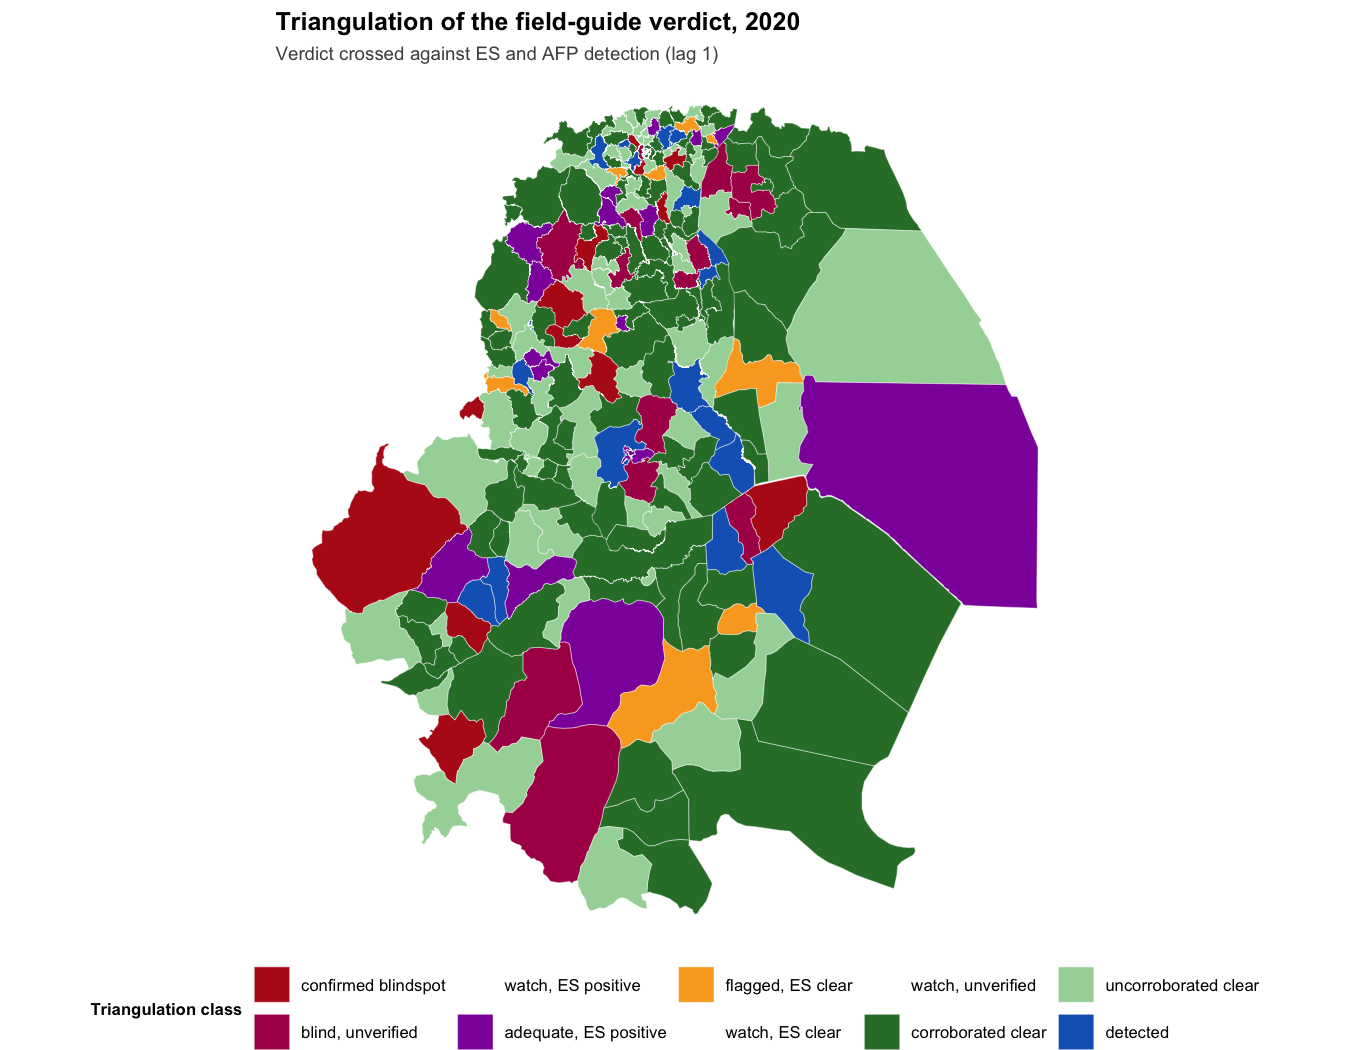
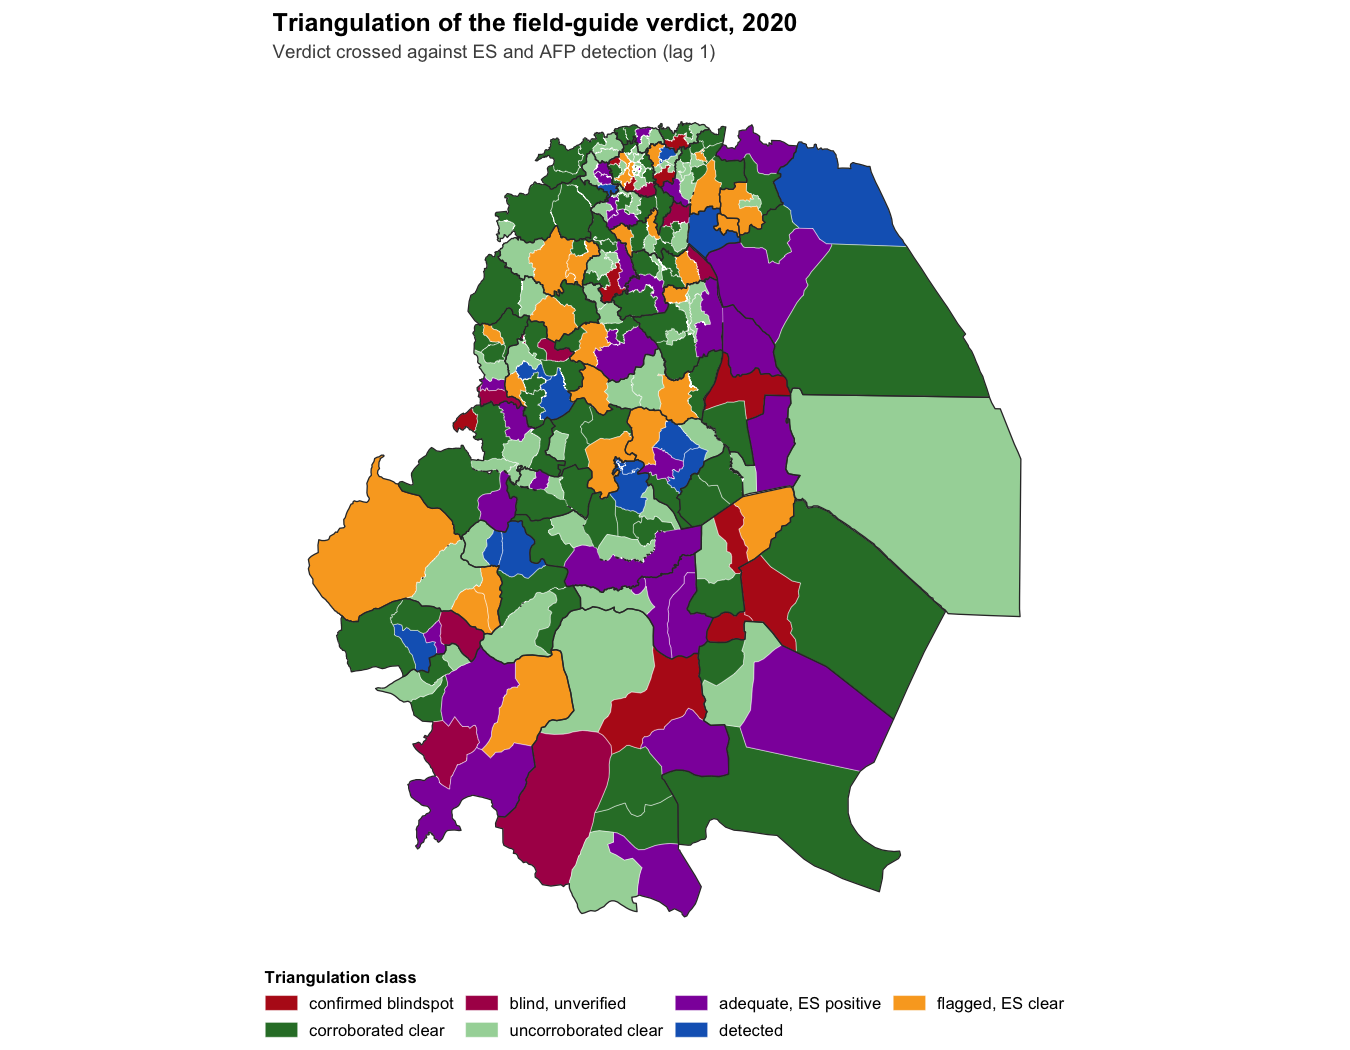
Polish concordance and triangulation maps; restructure README
- Overlay dissolved adm1 (province) outlines on the three-panel
  concordance map and the triangulation map (sntutils facetted-map
  convention), so provincial structure reads through the district
  choropleth.
- Add title/subtitle spacing and right-edge breathing space so the
  panel legends -- concordance panel C especially -- are no longer
  cramped.
- Triangulation map: lay the legend out in four columns and drop
  classes absent from the mapped year.
- README: fold the method-notes prose into a collapsible callout near
  the top, swap the flat triangulation count for a verdict x ES-status
  grid table, and note that polio NPAFP is the canonical example the
  method is built around.

Changed region(s): [[0.2178, 0.0914, 0.7778, 0.8838], [0.0622, 0.9143, 0.9333, 1.0], [0.1867, 0.0, 0.5911, 0.061]]

diff --git a/README.md b/README.md
@@ -35,6 +35,79 @@ does not forecast where poliovirus is circulating.
 **Designed for polio AFP surveillance. Applicable to any case-based VPD
 surveillance system.**
 
+<details>
+
+<summary>
+
+<b>Method notes — why a Bayesian spatial model, why INLA, and what the
+SPI is for</b> (click to expand)
+</summary>
+
+<br>
+
+**Why a Bayesian spatial model.** AFP counts at the district-month level
+are small and noisy. Many districts report zero cases in a given month
+even when surveillance is working, so a raw rate is unstable at that
+grain and a single bad month can look like a collapse. A BYM2 model (the
+Besag-York-Mollie reparameterisation of Riebler et al. 2016) handles
+this by borrowing strength across space: each district's estimate is
+pulled toward its neighbours in proportion to how little its own data
+can say on its own, and the model separates smooth spatial structure
+from unstructured local noise. A quiet district ringed by active ones is
+therefore read differently from a quiet district in a genuinely quiet
+region. Because the fit is Bayesian, every district-month comes with a
+full posterior, so the SPI carries a credible interval rather than a
+bare point estimate, and the uncertainty is itself part of the verdict.
+
+**Why INLA.** Fitting this by MCMC over tens of thousands of
+district-months, once per country and per year, would be slow. INLA
+(integrated nested Laplace approximation) gives fast, accurate
+approximate-Bayesian inference for exactly this class of latent Gaussian
+spatial models, so the whole chain runs in seconds to minutes instead of
+hours while still returning the joint posterior the SPI needs.
+
+**Expected rate model.** A Bayesian count regression with BYM2 spatial
+random effects, fit by INLA over a log under-15 person-time offset, with
+year, harmonic-seasonal, and contextual terms. The paper uses a negative
+binomial likelihood (Poisson distorted the spatial variance partition);
+the package can compare Poisson, Poisson-lognormal, and negative
+binomial and choose by DIC and WAIC. The intercept and covariates
+estimate the background detection rate from the data rather than
+imposing a fixed threshold, so the model learns what each district
+should be seeing. Posterior draws of the expected count become the SPI
+denominator.
+
+**What the SPI is for.** The SPI does not replace the conventional NPAFP
+rate; it refines it. The NPAFP rate asks whether a district clears a
+fixed target. The SPI asks whether a district detects as much as a model
+of its own context expects, with the uncertainty attached. Read together
+(the concordance step in the walkthrough) the two agree in most
+district-years; where they disagree, the disagreement runs one way, with
+the SPI flagging shortfall among districts the flat threshold had
+already certified as adequate far more often than the reverse. NPAFP is
+the polio example of a conventional flat threshold, and the one this
+package is built around; the same expected-versus-observed logic refines
+any case-based surveillance indicator, measles discard rates or
+reporting completeness among them.
+
+An SPI of 1 means detection matches expectation; below 1 flags
+under-detection (a blindspot); above 1 means detection runs ahead of
+expectation, for instance where an outbreak response has intensified
+case-finding. Crucially it is diagnostic, not predictive: a low SPI says
+the system is detecting less than it should, not that poliovirus is
+present. It measures whether the system could see, not whether there was
+anything to see.
+
+**Concordance against the conventional threshold.** Each district-year's
+SPI is cross-classified against the conventional NPAFP-rate target into
+a 2x2: *both adequate*, *true shortfall* (both metrics flag failure),
+*false alarm* (NPAFP fails but SPI is fine), and *false reassurance*
+(NPAFP looks adequate but SPI flags under-detection). The
+false-reassurance cell is the blindspot a raw threshold misses, and the
+one the example surfaces.
+
+</details>
+
 ## Installation
 
 ``` r
@@ -416,28 +489,29 @@ tri <- bs_triangulate(
   verbose = FALSE
 )
 
-dplyr::count(tri$district_year, triangulation)
-#> # A tibble: 9 x 2
-#>   triangulation             n
-#>   <fct>                 <int>
-#> 1 confirmed blindspot      30
-#> 2 blind, unverified        63
-#> 3 adequate, ES positive   153
-#> 4 flagged, ES clear        62
-#> 5 watch, ES clear           1
-#> 6 watch, unverified         4
-#> 7 corroborated clear     1125
-#> 8 uncorroborated clear    825
-#> 9 detected                 97
+# the ten classes are a verdict x ES-status grid (AFP-detected sits off-grid)
+grid <- subset(tri$district_year, !afp_hit)
+grid$verdict <- factor(grid$verdict_chr, c("FLAG", "WATCH", "No action"))
+grid$ES <- factor(grid$es_status, c("positive", "clear", "no site"))
+table(verdict = grid$verdict, ES = grid$ES)
+#>            ES
+#> verdict     positive clear no site
+#>   FLAG            21   102      52
+#>   WATCH            0     3       3
+#>   No action      172  1087     834
 ```
 
-`detection_lag = 1L` tests the verdict in year *t* against detections in
-year *t + 1*, so the capacity read is taken before the detection's own
-active case-finding could inflate it. Three classes carry the evidential
-weight: **confirmed blindspot** (flagged, and ES caught what AFP
-missed), **adequate, ES positive** (a possible false-adequate the guide
-waved through), and **blind, unverified** (flagged with no ES site to
-check it, the highest-value place to deploy ES or an active search).
+Read as a grid, the field-guide verdict runs down the rows and the
+independent ES read across the columns, so every cell is one triage
+class. `detection_lag = 1L` tests the year-*t* verdict against year *t +
+1* detections, so the capacity read is taken before the detection's own
+case-finding could inflate it. The cells that carry the weight sit off
+the reassuring bottom-right: **FLAG × positive** (confirmed blindspots,
+where ES caught what AFP missed), **No action × positive** (possible
+false-adequates the guide waved through), and **FLAG × no site**
+(flagged with no ES site to check, the highest-value place to deploy ES
+or an active search). The district-years where AFP itself already
+detected virus sit outside the grid.
 
 ``` r
 bs_triangulate_map(tri, synth_surveillance$boundaries, year = 2020)
@@ -449,66 +523,6 @@ The 2020 verdicts (the COVID-crash trough, tested against 2021
 detections) map the triage: reds and magenta are the districts to act on
 or instrument, greens the trustworthy silences. `bs_triangulate_table()`
 renders the same panel as a `gt` / `flextable` for a report.
-
-**Why a Bayesian spatial model.** AFP counts at the district-month level
-are small and noisy. Many districts report zero cases in a given month
-even when surveillance is working, so a raw rate is unstable at that
-grain and a single bad month can look like a collapse. A BYM2 model (the
-Besag-York-Mollie reparameterisation of Riebler et al. 2016) handles
-this by borrowing strength across space: each district's estimate is
-pulled toward its neighbours in proportion to how little its own data
-can say on its own, and the model separates smooth spatial structure
-from unstructured local noise. A quiet district ringed by active ones is
-therefore read differently from a quiet district in a genuinely quiet
-region. Because the fit is Bayesian, every district-month comes with a
-full posterior, so the SPI carries a credible interval rather than a
-bare point estimate, and the uncertainty is itself part of the verdict.
-
-**Why INLA.** Fitting this by MCMC over tens of thousands of
-district-months, once per country and per year, would be slow. INLA
-(integrated nested Laplace approximation) gives fast, accurate
-approximate-Bayesian inference for exactly this class of latent Gaussian
-spatial models, so the whole chain runs in seconds to minutes instead of
-hours while still returning the joint posterior the SPI needs.
-
-**Expected rate model.** A Bayesian count regression with BYM2 spatial
-random effects, fit by INLA over a log under-15 person-time offset, with
-year, harmonic-seasonal, and contextual terms. The paper uses a negative
-binomial likelihood (Poisson distorted the spatial variance partition);
-the package can compare Poisson, Poisson-lognormal, and negative
-binomial and choose by DIC and WAIC. The intercept and covariates
-estimate the background detection rate from the data rather than
-imposing a fixed threshold, so the model learns what each district
-should be seeing. Posterior draws of the expected count become the SPI
-denominator.
-
-**What the SPI is for.** The SPI does not replace the conventional NPAFP
-rate; it refines it. The NPAFP rate asks whether a district clears a
-fixed target. The SPI asks whether a district detects as much as a model
-of its own context expects, with the uncertainty attached. Read together
-(the concordance step in the walkthrough) the two agree in most
-district-years; where they disagree, the disagreement runs one way, with
-the SPI flagging shortfall among districts the flat threshold had
-already certified as adequate far more often than the reverse. NPAFP is
-only the polio example of a conventional flat threshold: the same
-expected-versus-observed logic refines any case-based surveillance
-indicator, measles discard rates or reporting completeness among them.
-
-An SPI of 1 means detection matches expectation; below 1 flags
-under-detection (a blindspot); above 1 means detection runs ahead of
-expectation, for instance where an outbreak response has intensified
-case-finding. Crucially it is diagnostic, not predictive: a low SPI says
-the system is detecting less than it should, not that poliovirus is
-present. It measures whether the system could see, not whether there was
-anything to see.
-
-**Concordance against the conventional threshold.** Each district-year's
-SPI is cross-classified against the conventional NPAFP-rate target into
-a 2x2: *both adequate*, *true shortfall* (both metrics flag failure),
-*false alarm* (NPAFP fails but SPI is fine), and *false reassurance*
-(NPAFP looks adequate but SPI flags under-detection). The
-false-reassurance cell is the blindspot a raw threshold misses, and the
-one the example surfaces.
 
 ## Exported functions
 
@@ -534,12 +548,14 @@ useful, `summary` / `as_tibble`) methods; the `bs_spi()` and
 
 ## Applications
 
-The framework is disease-agnostic. The core engine operates on case
-counts, population denominators, and spatial boundaries. Designed for
-AFP/polio surveillance in the polio endgame; applicable to measles
-discard surveillance, DHIS2 reporting completeness monitoring, and other
-case-based VPD surveillance systems. Changing the application requires
-changing the data and covariates, not the methodology.
+The core engine is disease-agnostic: it operates on case counts,
+population denominators, and spatial boundaries. But polio AFP/NPAFP is
+the key example throughout this package and its paper — the method was
+built around the polio endgame's surveillance-quality problem, and the
+NPAFP rate is the flat threshold every worked example refines. Other
+case-based VPD indicators (measles discard surveillance, DHIS2 reporting
+completeness, and the like) are supported by analogy: changing the
+application changes the data and covariates, not the methodology.
 
 ## The name
 
